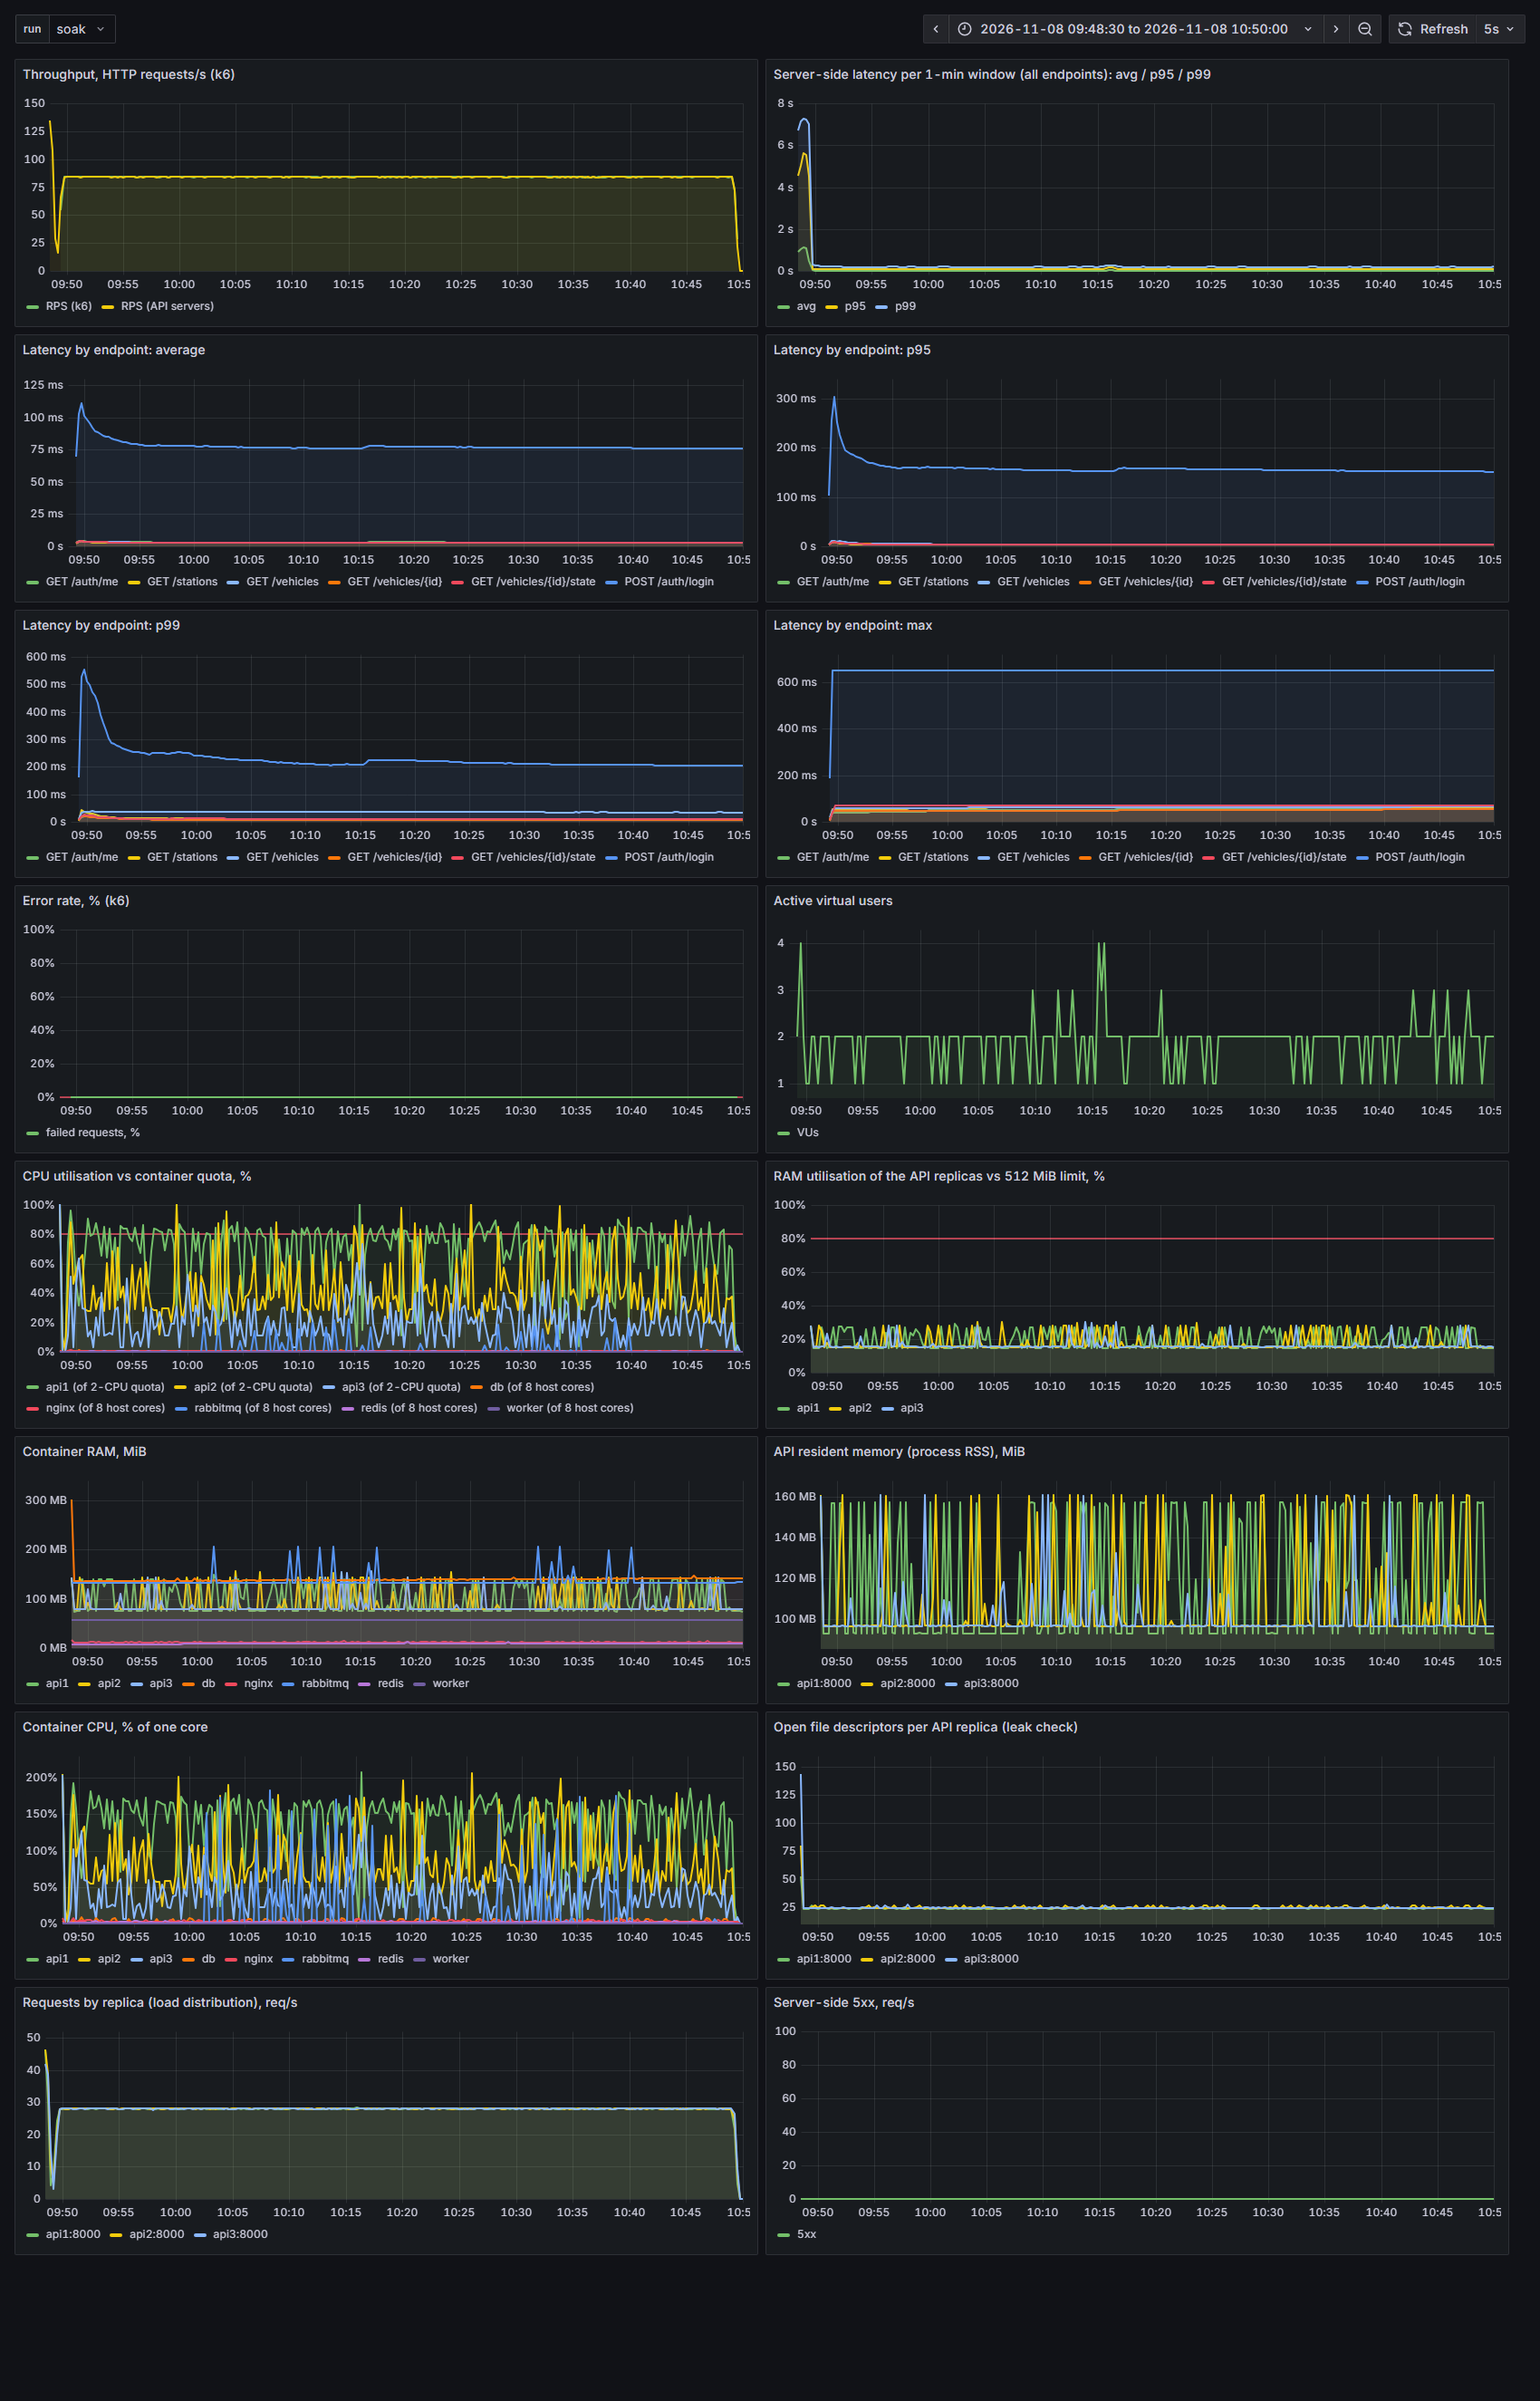
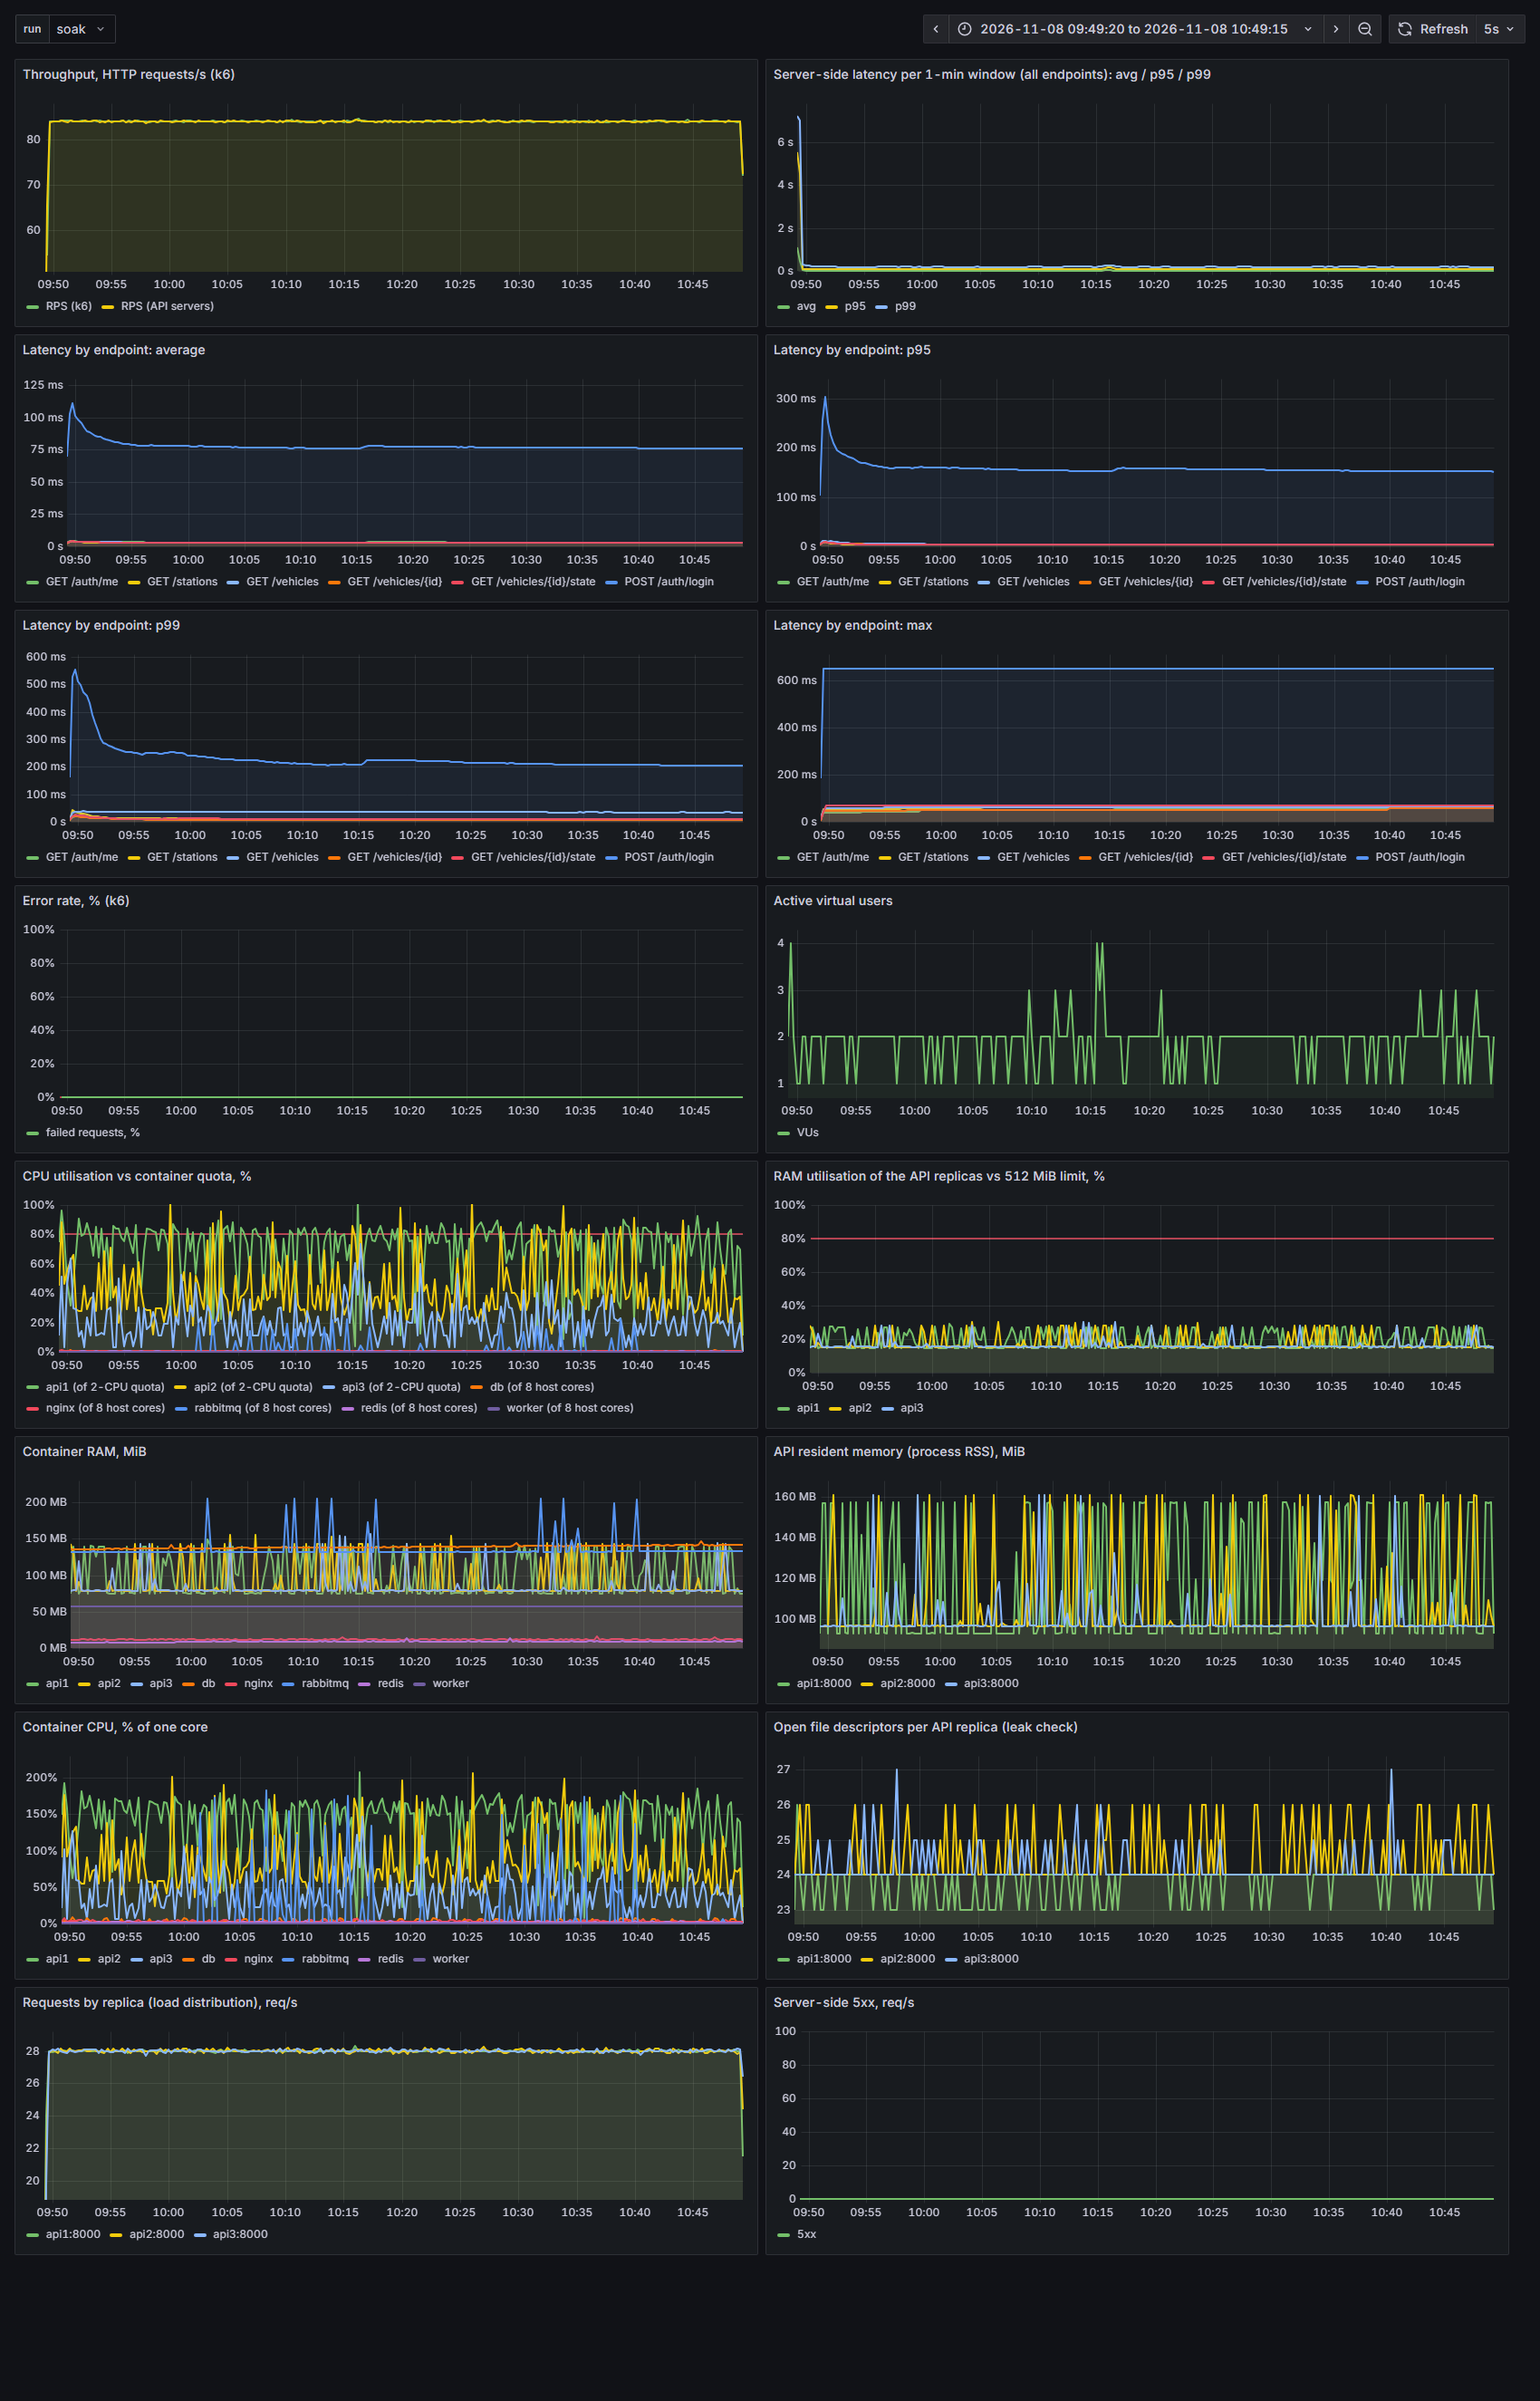
docs(infra): lab 8 soak screenshot window and wording

diff --git a/docs/lab8/REPORT.md b/docs/lab8/REPORT.md
@@ -108,7 +108,7 @@ login) і повертається до базового рівня ~90 МіБ; 
 
 **Латентність стабільна.** Серверні значення за вікно 1 хв (усі ендпоінти разом): перші 10 хв після прогріву -
 avg 15 мс, p95 75 мс, p99 187 мс; останні 10 хв - avg 14 мс, p95 75 мс, p99 178 мс. Деградації немає, p99 навіть дещо
-краще після прогріву (прогрів кешу та з'єднань). Піки на початку - прогрів пулу з'єднань та кешу списків.
+краще після прогріву (прогрів кешу та з'єднань). Короткий підйом p95/p99 у перші хвилини графіка - прогрів кешу та пулу з'єднань; після ~5 хв значення плоскі.
 
 **Рівномірність балансування:** кожна репліка обслуговувала ~28 req/с (round robin) - нерівномірність CPU між
 репліками (24-63 % у середньому) пояснюється нерівномірним розподілом дорогих `login` запитів і кроком вибірки
